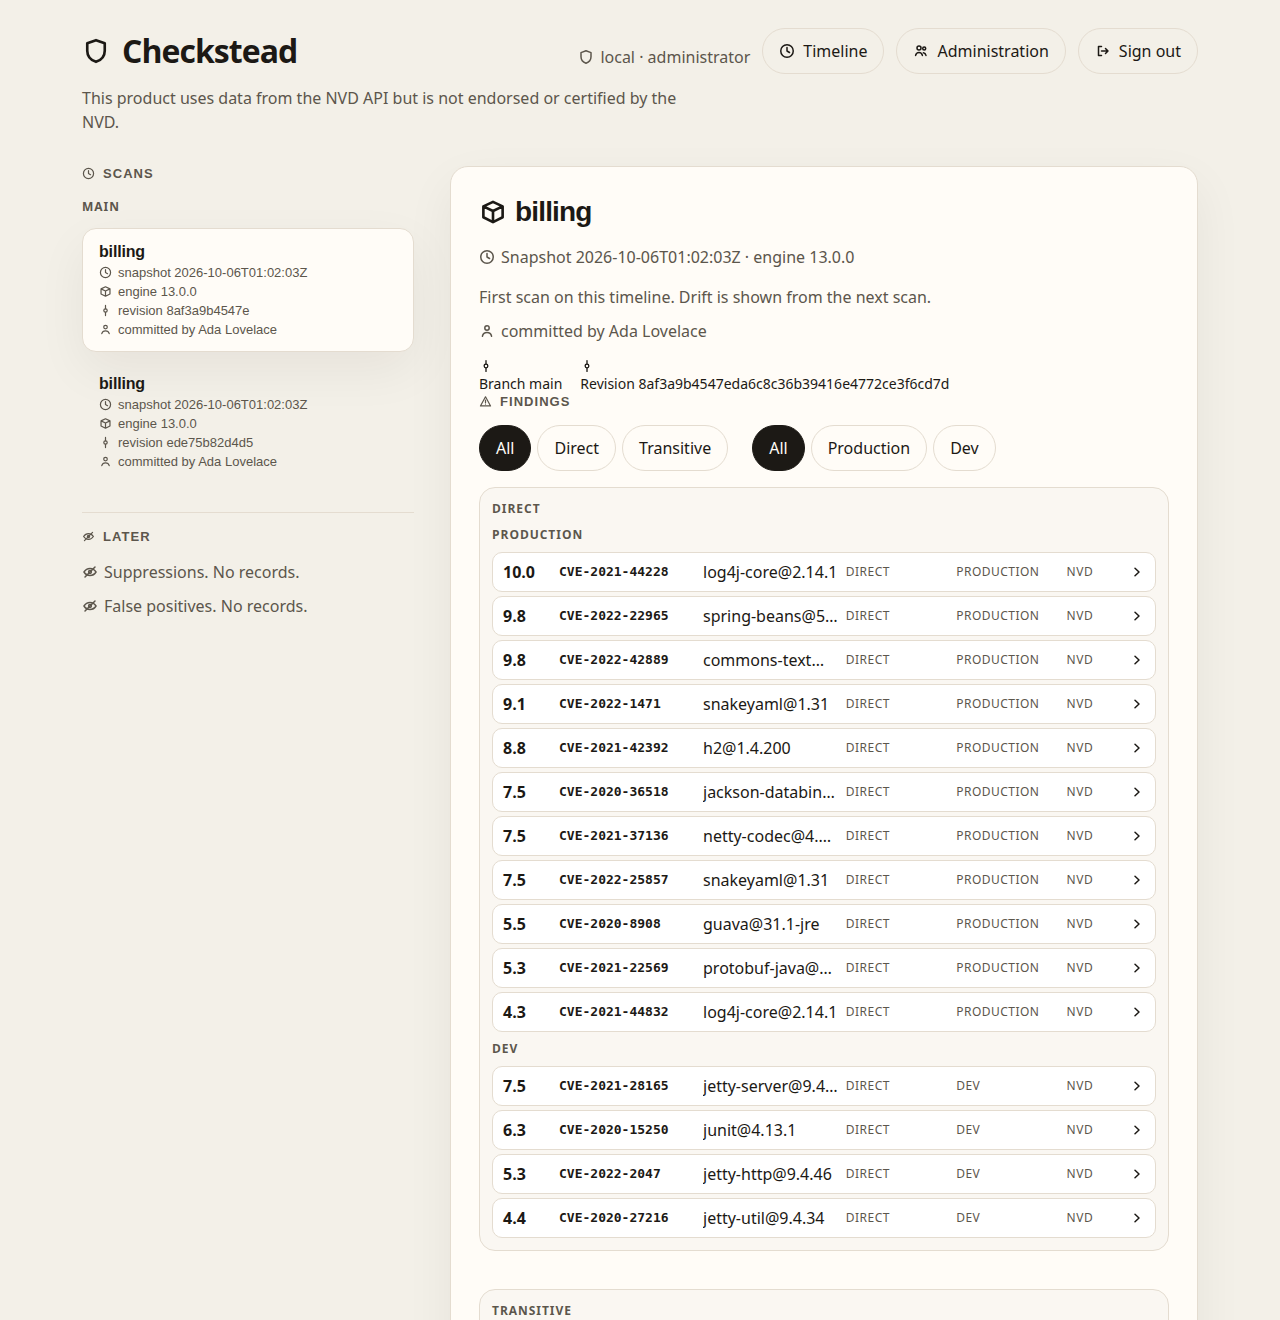
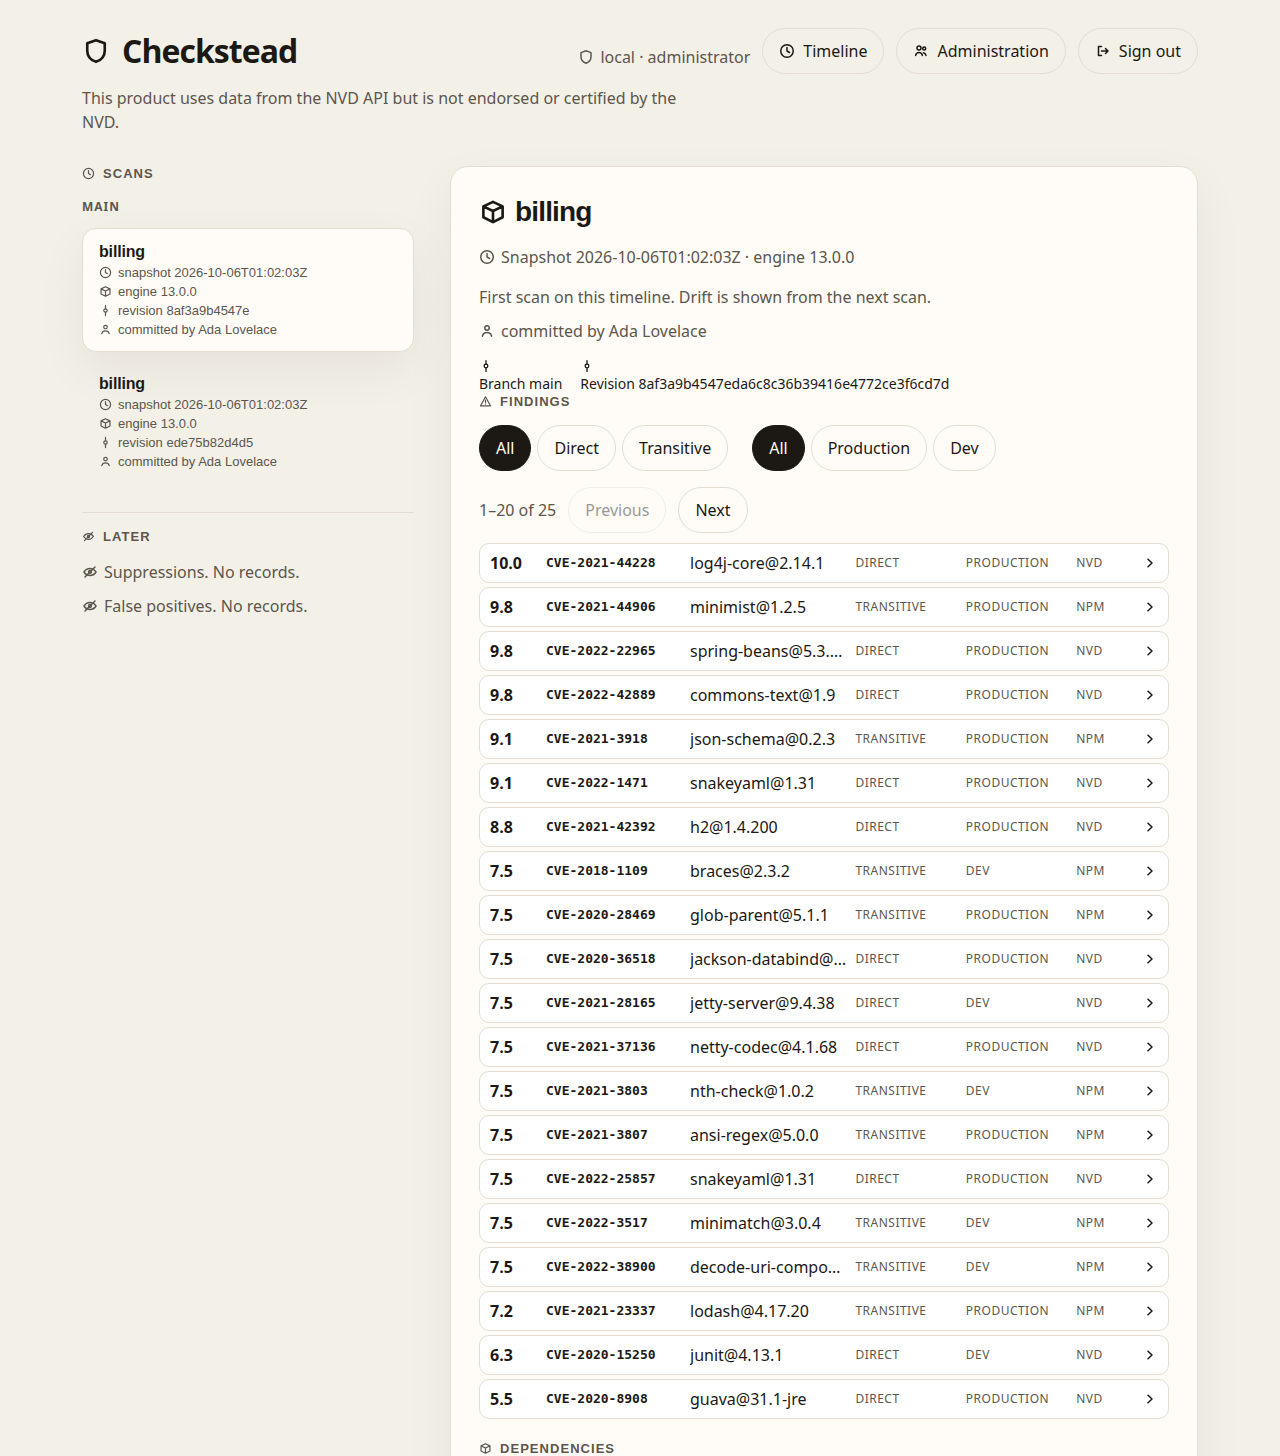
Page the finding list so a large scan stays on one screen.
The rows stay sorted by score and show twenty at a time, with the count and a next set. The CVSS detail opens from the row instead of being listed again underneath.

diff --git a/src/checkstead/ui_page.html b/src/checkstead/ui_page.html
@@ -100,11 +100,12 @@
     .finding-filters { display: flex; flex-wrap: wrap; gap: 16px 24px; margin: 0 0 16px; }
     .finding-filters div { display: flex; flex-wrap: wrap; gap: 6px; }
     .finding-filters button[aria-pressed="true"] { background: var(--ink); color: var(--panel); border-color: var(--ink); }
-    .finding-groups { display: grid; gap: 16px; }
-    .finding-relationship, .finding-scope { display: grid; gap: 8px; }
-    .finding-relationship { padding: 12px; border: 1px solid var(--line); border-radius: 16px; background: #faf7f2; }
-    .finding-relationship h3, .finding-scope h4 {
-      margin: 0; font-size: 12px; letter-spacing: 0.08em; text-transform: uppercase; color: var(--muted);
+    .finding-pager { display: flex; flex-wrap: wrap; gap: 12px; align-items: center; margin: 0 0 10px; }
+    .finding-pager button:disabled { opacity: 0.45; cursor: not-allowed; }
+    .finding-count { margin: 0; color: var(--muted); }
+    .finding-window {
+      max-height: calc(100vh - 220px);
+      overflow: auto;
     }
     .finding-list { display: grid; gap: 4px; }
     .finding-list li + li { margin-top: 0; }
@@ -131,7 +132,13 @@
     .finding-kind, .finding-source { font-size: 12px; letter-spacing: 0.04em; text-transform: uppercase; color: var(--muted); }
     .finding-chevron { justify-self: end; transition: transform 120ms ease; }
     .finding-row.open .finding-chevron { transform: rotate(90deg); }
-    .finding-text { margin: 0; padding: 0 12px 10px; }
+    .finding-text { margin: 0; }
+    .finding-detail { display: grid; gap: 8px; padding: 0 12px 12px; }
+    .finding-cvss { display: flex; flex-wrap: wrap; gap: 8px 16px; margin: 0; color: var(--muted); font-size: 13px; }
+    .finding-cvss div { display: flex; gap: 6px; }
+    .finding-cvss dt, .finding-cvss dd { margin: 0; }
+    .finding-cvss dt { font-weight: 650; color: var(--ink); }
+    .finding-cvss dd { font-family: ui-monospace, monospace; word-break: break-all; }
     .tag { font-size: 12px; font-weight: 650; letter-spacing: 0.04em; text-transform: uppercase; }
     .added .tag { color: var(--added); }
     .removed .tag { color: var(--removed); }
@@ -274,7 +281,9 @@
       openFinding: null,
       findingRelationship: "",
       findingScope: "",
+      findingPage: 0,
     };
+    const findingPageSize = 20;
 
     function text(tag, value, className) {
       const node = document.createElement(tag);
@@ -361,6 +370,7 @@
             state.selected = scan.id;
             state.openKey = null;
             state.openFinding = null;
+            state.findingPage = 0;
             render();
           });
           section.append(button);
@@ -462,7 +472,7 @@
       });
       findings.append(findingList);
       detail.append(findings);
-      detail.append(findingsSection(scan.findings || []));
+      detail.append(findingsSection(scan.findings || [], scan.scoreLines || []));
     }
 
     function findingLabel(item) {
@@ -508,6 +518,7 @@
           ["transitive", "Transitive"],
         ], state.findingRelationship, (value) => {
           state.findingRelationship = value;
+          state.findingPage = 0;
           render();
         }),
         filterGroup("Scope", [
@@ -516,13 +527,54 @@
           ["dev", "Dev"],
         ], state.findingScope, (value) => {
           state.findingScope = value;
+          state.findingPage = 0;
           render();
         })
       );
       return bar;
     }
 
-    function findingRow(item) {
+    function parseScoreLine(line) {
+      const body = String(line || "").replace(/^finding:\s*/, "");
+      const fields = {};
+      body.split(/\s+/).slice(1).forEach((token) => {
+        const split = token.indexOf("=");
+        if (split > 0) fields[token.slice(0, split)] = token.slice(split + 1);
+      });
+      return fields;
+    }
+
+    function scoreLineFor(item, lines) {
+      const id = item.id || "";
+      const dependency = item.dependency || "";
+      return (lines || []).find((line) => {
+        const body = String(line).replace(/^finding:\s*/, "");
+        if (!body.startsWith(id + " ")) return false;
+        return !dependency || body.includes("dependency=" + dependency);
+      });
+    }
+
+    function findingDetail(item, lines) {
+      const detail = document.createElement("div");
+      detail.className = "finding-detail";
+      detail.append(text("p", item.description || "No description recorded.", "finding-text"));
+      const fields = parseScoreLine(scoreLineFor(item, lines) || "");
+      const pairs = [];
+      if (fields.cvss || fields.vector) pairs.push(["CVSS", [fields.cvss, fields.vector].filter(Boolean).join(" ")]);
+      if (fields.kev && fields.kev !== "no") pairs.push(["KEV", fields.kev]);
+      if (!pairs.length) return detail;
+      const meta = document.createElement("dl");
+      meta.className = "finding-cvss";
+      pairs.forEach((pair) => {
+        const bit = document.createElement("div");
+        bit.append(text("dt", pair[0]), text("dd", pair[1]));
+        meta.append(bit);
+      });
+      detail.append(meta);
+      return detail;
+    }
+
+    function findingRow(item, lines) {
       const key = findingKey(item);
       const open = state.openFinding === key;
       const row = document.createElement("li");
@@ -546,42 +598,67 @@
         render();
       });
       row.append(button);
-      if (open) row.append(text("p", item.description || "No description recorded.", "finding-text"));
+      if (open) row.append(findingDetail(item, lines));
       return row;
     }
 
-    function findingsSection(findings) {
+    function findingPager(total) {
+      const bar = document.createElement("div");
+      bar.className = "finding-pager";
+      const pages = Math.max(1, Math.ceil(total / findingPageSize));
+      if (state.findingPage > pages - 1) state.findingPage = 0;
+      const start = state.findingPage * findingPageSize;
+      const end = Math.min(total, start + findingPageSize);
+      bar.append(text("p", total ? (start + 1) + "–" + end + " of " + total : "No findings.", "finding-count"));
+      if (total > findingPageSize) {
+        const previous = document.createElement("button");
+        previous.type = "button";
+        previous.className = "quiet";
+        previous.textContent = "Previous";
+        previous.disabled = state.findingPage === 0;
+        previous.addEventListener("click", () => {
+          state.findingPage -= 1;
+          state.openFinding = null;
+          render();
+        });
+        const next = document.createElement("button");
+        next.type = "button";
+        next.className = "quiet";
+        next.textContent = "Next";
+        next.disabled = end >= total;
+        next.addEventListener("click", () => {
+          state.findingPage += 1;
+          state.openFinding = null;
+          render();
+        });
+        bar.append(previous, next);
+      }
+      return {bar, start, end};
+    }
+
+    function findingsSection(findings, lines) {
       const section = document.createElement("section");
       section.append(withIcon("alert", "Findings", "h2"));
       section.append(findingFilters());
-      const groups = document.createElement("div");
-      groups.className = "finding-groups";
-      const relationships = state.findingRelationship ? [state.findingRelationship] : ["direct", "transitive"];
-      const scopes = state.findingScope ? [state.findingScope] : ["production", "dev"];
-      relationships.forEach((relationship) => {
-        const column = document.createElement("section");
-        column.className = "finding-relationship";
-        column.append(text("h3", relationship));
-        scopes.forEach((scope) => {
-          const block = document.createElement("div");
-          block.className = "finding-scope";
-          block.append(text("h4", scope));
-          const items = (findings || []).filter((item) => {
-            return (item.relationship || "direct") === relationship && (item.scope || "production") === scope;
-          });
-          items.sort((a, b) => findingRank(b) - findingRank(a) || String(a.id || "").localeCompare(String(b.id || "")));
-          if (!items.length) block.append(text("p", "No findings.", "empty"));
-          else {
-            const list = document.createElement("ul");
-            list.className = "finding-list";
-            items.forEach((item) => list.append(findingRow(item)));
-            block.append(list);
-          }
-          column.append(block);
-        });
-        groups.append(column);
+      const items = (findings || []).filter((item) => {
+        const relationship = item.relationship || "direct";
+        const scope = item.scope || "production";
+        if (state.findingRelationship && relationship !== state.findingRelationship) return false;
+        if (state.findingScope && scope !== state.findingScope) return false;
+        return true;
       });
-      section.append(groups);
+      items.sort((a, b) => findingRank(b) - findingRank(a) || String(a.id || "").localeCompare(String(b.id || "")));
+      const pager = findingPager(items.length);
+      section.append(pager.bar);
+      const findingWindow = document.createElement("div");
+      findingWindow.className = "finding-window";
+      if (items.length) {
+        const list = document.createElement("ul");
+        list.className = "finding-list";
+        items.slice(pager.start, pager.end).forEach((item) => list.append(findingRow(item, lines)));
+        findingWindow.append(list);
+      }
+      section.append(findingWindow);
       return section;
     }
 
@@ -595,26 +672,9 @@
       return row;
     }
 
-    function scoreSection(lines, available) {
-      const scores = document.createElement("section");
-      scores.append(withIcon("gauge", "CVSS and score source", "h2"));
-      if (lines.length) {
-        const list = document.createElement("ul");
-        lines.forEach((line) => {
-          const row = document.createElement("li");
-          row.className = "row";
-          row.textContent = line.replace(/^finding:\s*/, "");
-          list.append(row);
-        });
-        scores.append(list);
-        return scores;
-      }
-      if (!available) {
-        scores.append(text("p", "No score source in these reports. A phase 1 report does not carry one yet.", "empty"));
-      } else {
-        scores.append(text("p", "Score source is present on at least one finding. Changes are listed with the findings above.", "empty"));
-      }
-      return scores;
+    function scoreNote(available) {
+      if (available) return null;
+      return text("p", "No score source in these reports. A phase 1 report does not carry one yet.", "empty");
     }
 
     function renderScan(scan) {
@@ -627,7 +687,7 @@
       const committer = committerLabel(scan);
       if (committer) detail.append(withIcon("person", committer, "p", "meta meta-line"));
       detail.append(identityLine(scan));
-      detail.append(findingsSection(scan.findings || []));
+      detail.append(findingsSection(scan.findings || [], scan.scoreLines || []));
       const section = document.createElement("section");
       section.append(withIcon("package", "Dependencies", "h2"));
       const list = document.createElement("ul");
@@ -645,7 +705,10 @@
       }
       section.append(list);
       detail.append(section);
-      detail.append(scoreSection(scan.scoreLines || [], scan.hasScoreSource));
+      if (!(scan.scoreLines || []).length) {
+        const note = scoreNote(scan.hasScoreSource);
+        if (note) detail.append(note);
+      }
     }
 
     function render() {

diff --git a/tests/test_history.py b/tests/test_history.py
@@ -207,12 +207,15 @@ class HistoryTests(TestCase):
         self.assertIn("branch-group", page)
         self.assertIn("function branchGroups", page)
         self.assertIn("scan.branch", page)
-        self.assertIn("finding-groups", page)
+        self.assertIn("finding-window", page)
         self.assertIn("findingsSection", page)
         self.assertIn("finding-row", page)
         self.assertIn("finding-filters", page)
+        self.assertIn("const findingPageSize = 20", page)
         self.assertIn("function findingRank", page)
         self.assertIn("findingRank(b) - findingRank(a)", page)
+        self.assertIn('next.textContent = "Next"', page)
+        self.assertNotIn("CVSS and score source", page)
         self.assertIn('filterGroup("Relationship"', page)
         self.assertIn('filterGroup("Scope"', page)
         self.assertIn("state.openFinding === key", page)

diff --git a/README.md b/README.md
@@ -130,13 +130,13 @@ On localhost, the first person uses **Sign in on this computer**. That button is
 
 ![Sign-in page. Sign in on this computer is enabled. GitHub and Microsoft are inactive.](docs/screenshots/sign-in.png)
 
-The first scan on a branch is the scan view. This one records branch `main`. Each finding is one row: score, vulnerability id, package, direct or transitive, production or dev, and score source. The rows in each group are sorted by score, highest first. The description stays closed until the row is opened. Direct, transitive, production, and dev stay as groups, and the list can be narrowed to one relationship and one scope.
+The first scan on a branch is the scan view. This one records branch `main`. Each finding is one row: score, vulnerability id, package, direct or transitive, production or dev, and score source. The list is about one screen high and shows 20 rows at a time, highest score first, with the count and **Next**. The description and the CVSS detail stay closed until the row is opened. The filters narrow the same list to direct or transitive, and to production or dev.
 
-![Scan of billing on branch main. Findings are closed rows sorted by score.](docs/screenshots/scan.png)
+![Scan of billing on branch main. Twenty finding rows, with the count and Next.](docs/screenshots/scan.png)
 
-The next scan on that branch is the drift. The branch is `main`. Guava moved from 31.1-jre to 32.1.3-jre, commons-text moved from 1.9 to 1.10.0, and gson arrived. The drift list says no findings were added or removed between the two scans. The same row list sits under that line.
+The next scan on that branch is the drift. The branch is `main`. Guava moved from 31.1-jre to 32.1.3-jre, commons-text moved from 1.9 to 1.10.0, and gson arrived. The drift list says no findings were added or removed between the two scans. The same paged row list sits under that line.
 
-![Drift on branch main. The finding rows stay under the dependency changes.](docs/screenshots/drift.png)
+![Drift on branch main. The paged finding rows stay under the dependency changes.](docs/screenshots/drift.png)
 
 The first person to sign in is the administrator. Administration is where that person adds later accounts.
 
@@ -406,7 +406,7 @@ The Action passes `GITHUB_REF_NAME` and `GITHUB_SHA` into the scan. `checkstead.
 
 On a pull request the Action fetches the head commit and the base commit, then scans both trees in one run. Both scans use the same snapshot and `--noupdate`. A finding is introduced only when its package identity and vulnerability id are on the head and absent on the base.
 
-Findings in `checkstead.txt` are separate groups: direct and transitive, and production and dev. Each vulnerability has a `description:` line, plus the score, the score source, and the package. The timeline keeps those groups and lists each finding as one row, sorted by score. The description stays closed until the row is opened. The SARIF result carries the same description, score, score source, and package.
+Findings in `checkstead.txt` are separate groups: direct and transitive, and production and dev. Each vulnerability has a `description:` line, plus the score, the score source, and the package. The timeline lists each finding as one row, sorted by score, highest first. About 20 rows show at a time. The description and the CVSS detail stay closed until the row is opened. The SARIF result carries the same description, score, score source, and package.
 
 ### Pull requests
 
@@ -468,7 +468,7 @@ The two reports already in `ui/scans` are a pair of fixture scans on the same sn
 
 A scan records a revision when you pass `--revision`, and the GitHub Action passes `GITHUB_SHA`. When that revision is a commit git can see, the report also names the author. The sample reports use the commits of the fixture trees. Both were committed by Cursor Agent.
 
-A scan records the git branch of the tree it scanned, the branch you pass with `--branch`, or `GITHUB_REF_NAME` from the Action. The timeline reads `branch:` from `checkstead.txt` and groups scans into one section per branch. Drift is the change from the previous scan on that same branch. Each finding is one row in its direct or transitive group and its production or dev group: score, vulnerability id, package, and score source. The description stays closed until the row is opened. The rows are sorted by score, highest first. The list can be narrowed to one relationship and one scope without dropping those groups.
+A scan records the git branch of the tree it scanned, the branch you pass with `--branch`, or `GITHUB_REF_NAME` from the Action. The timeline reads `branch:` from `checkstead.txt` and groups scans into one section per branch. Drift is the change from the previous scan on that same branch. Each finding is one row: score, vulnerability id, package, direct or transitive, production or dev, and score source. The rows stay in a list about one screen high, sorted by score, highest first. The list shows about 20 rows at a time, with the count and a next set. The description and the CVSS detail stay closed until the row is opened. The list can be narrowed to one relationship and one scope.
 
 ## Server
 
